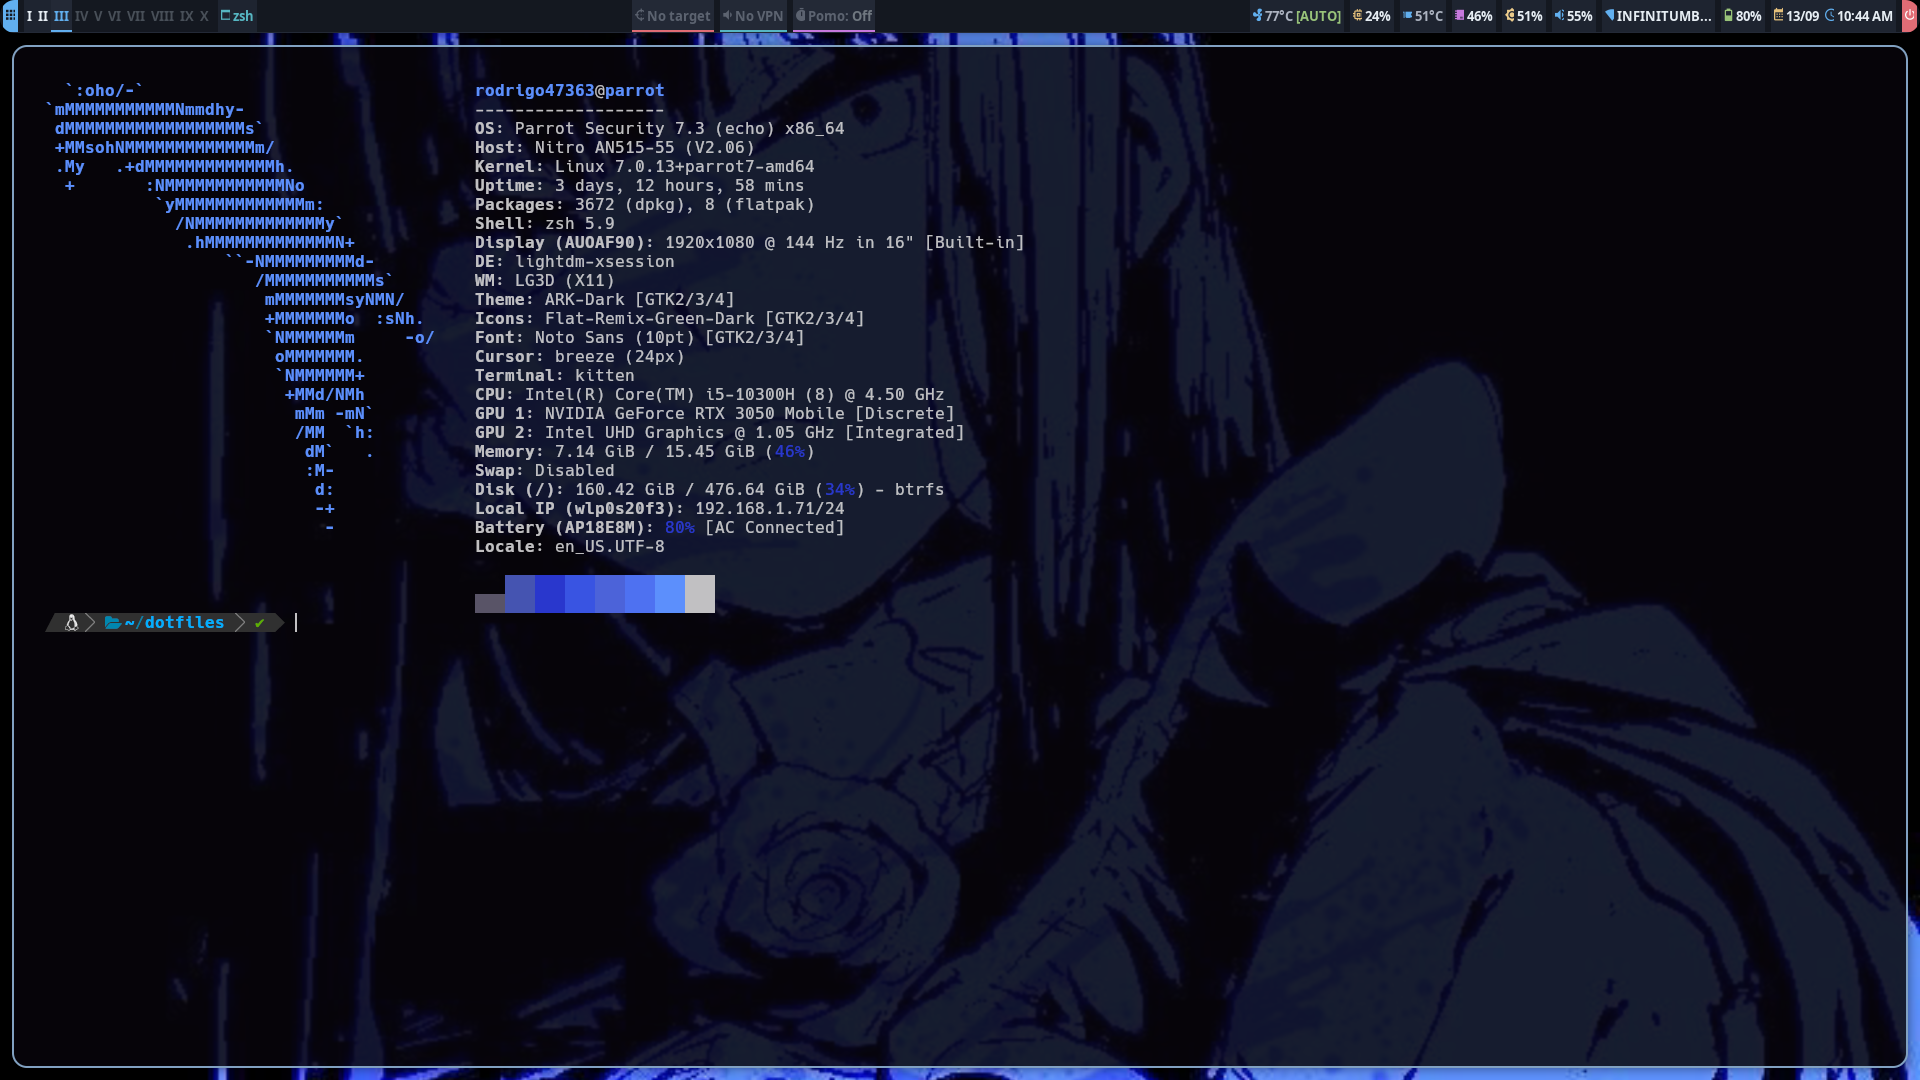
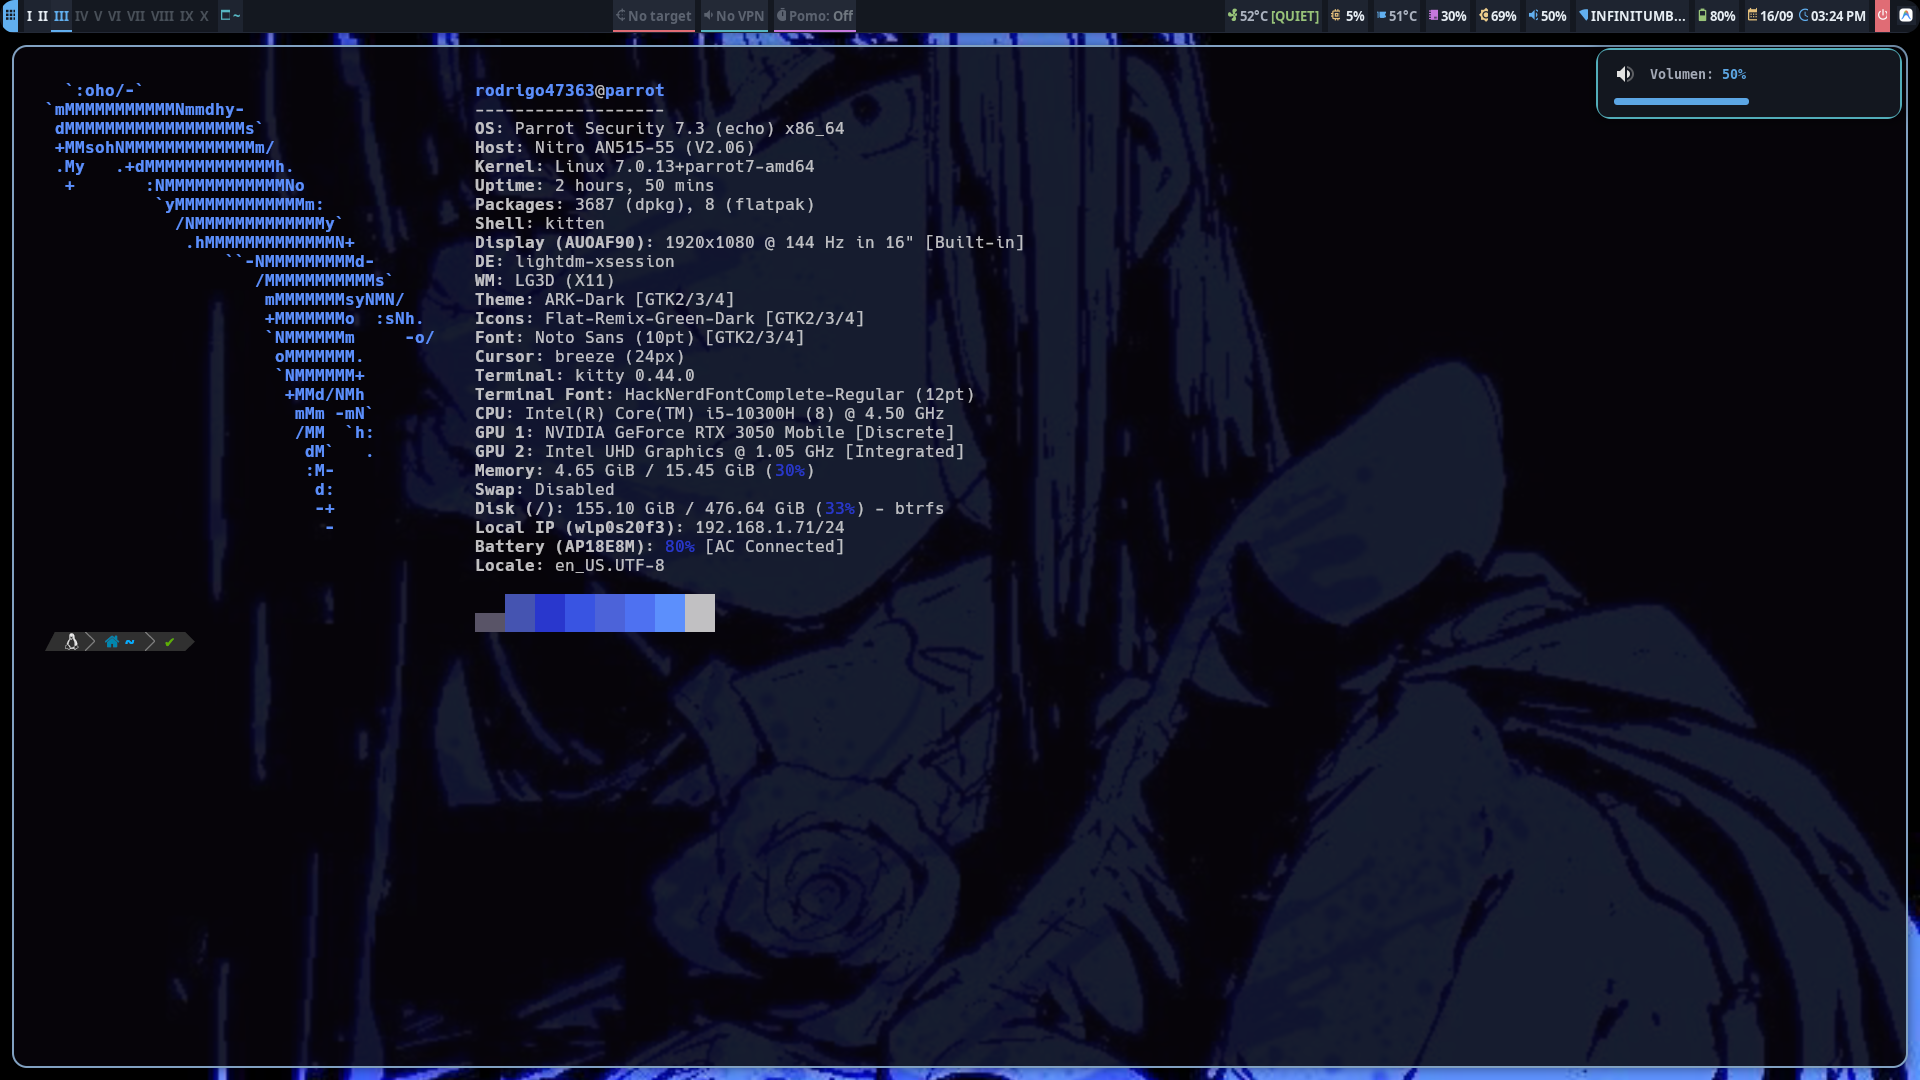
docs(assets,readme): add screenshot showcases for volume and brightness OSD and sliders
- Update assets/preview.png showcasing updated Polybar modules, Kitty terminal with Fastfetch, and live Dunst volume OSD

- Add assets/osd_volume.png highlighting the interactive PyQt5 volume slider with presets and Dunst progress bar

- Add assets/osd_brightness.png illustrating the interactive PyQt5 brightness slider and Dunst progress bar

- Update README.md with side-by-side visual showcases in the OSD controls section and update the file tree structure

diff --git a/README.md b/README.md
@@ -159,6 +159,11 @@ El archivo [`sxhkdrc`](sxhkdrc) centraliza los accesos rápidos. Toda la arquite
 | <kbd>Super</kbd> + <kbd>Alt</kbd> + <kbd>V</kbd> | **Abrir / Cerrar Slider flotante interactivo de Volumen** (`volume-slider`) |
 | <kbd>Super</kbd> + <kbd>Alt</kbd> + <kbd>B</kbd> | **Abrir / Cerrar Slider flotante interactivo de Brillo** (`brightness-slider`) |
 
+<p align="center">
+  <img src="assets/osd_volume.png" alt="Volume OSD & Interactive Slider" width="49%">
+  <img src="assets/osd_brightness.png" alt="Brightness OSD & Interactive Slider" width="49%">
+</p>
+
 ---
 
 ## 📊 Polybar — Suite Modular Táctica (`config.ini`)
@@ -253,8 +258,10 @@ Aspectos destacados implementados en [`bspwmrc`](bspwmrc):
 ```text
 dotfiles/
 ├── assets/                               # Capturas de pantalla y showcases del entorno
-│   ├── preview.png                       # Showcase principal del escritorio (BSPWM + Polybar + Fastfetch)
-│   └── powermenu.png                     # Menú de apagado horizontal interactivo (Neo Tokyo Edition)
+│   ├── preview.png                       # Showcase principal del escritorio (BSPWM + Polybar + Fastfetch + OSD)
+│   ├── powermenu.png                     # Menú de apagado horizontal interactivo (Neo Tokyo Edition)
+│   ├── osd_volume.png                    # Showcase del slider flotante interactivo y OSD de volumen
+│   └── osd_brightness.png                # Showcase del slider flotante interactivo y OSD de brillo
 ├── bin/                                  # Scripts y utilidades operativas de usuario (~/.local/bin)
 │   ├── volume                           # Controlador CLI de audio con OSD Dunst y paso de 1%
 │   ├── brightness                       # Controlador CLI de brillo con OSD Dunst, paso de 1% y fail-safe
